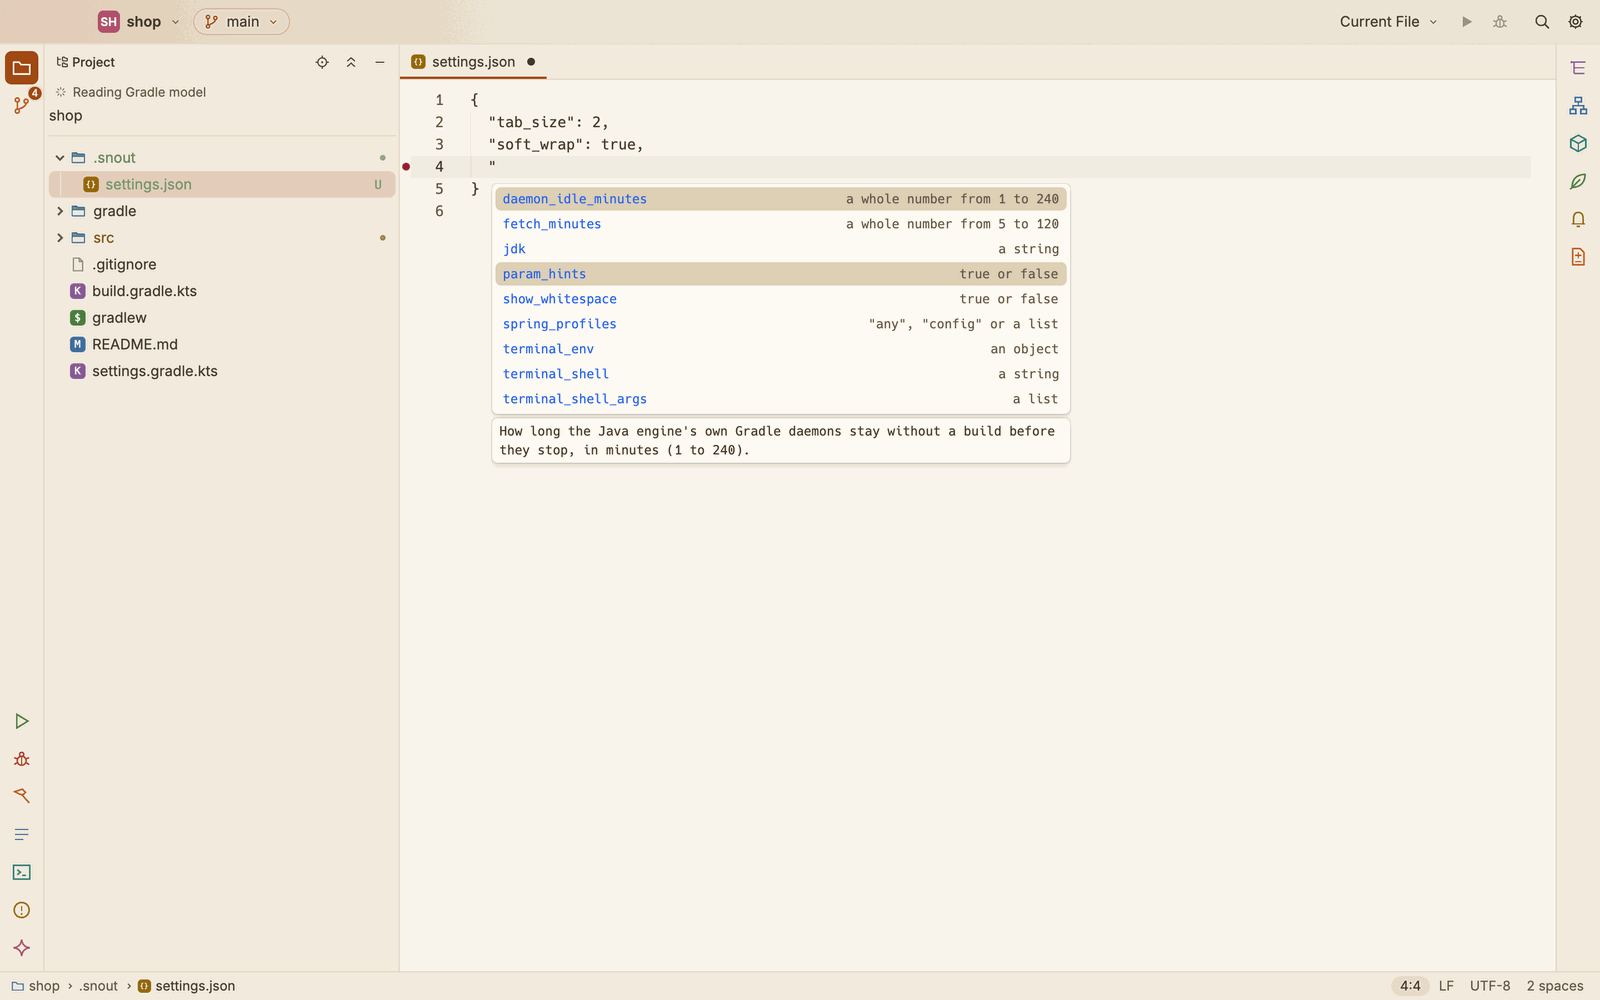
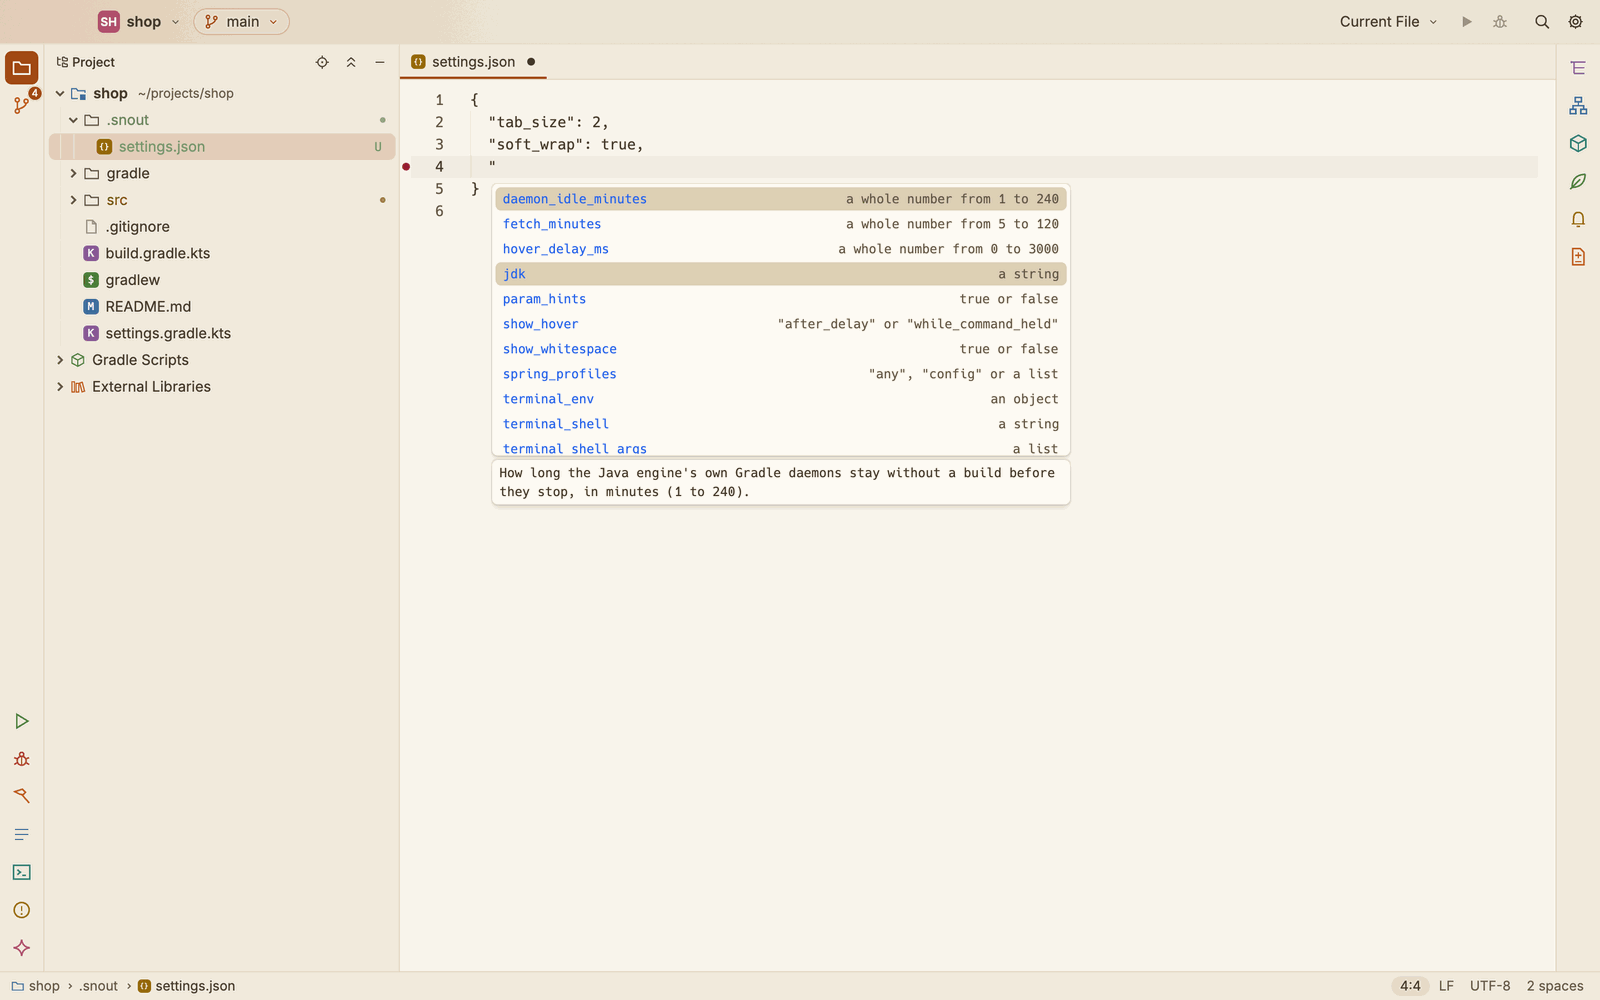
Docs: hover cards with their fix, context actions, Fix all, Ask to fix, the Problems window
- java.md: the hover card and the bulb in Quick fixes, the list ⌥↩ shows, and the Problems
  window grouped, with its toggles, filter and fixes; new and retaken shots.
- editor.md: the Hover section and its setting; agents.md: Ask the agent to fix a problem;
  keyboard-shortcuts.md and settings-and-keymap.md: ⌥↩, ⌥⇧↩, show_hover, hover_delay_ms.

Claude-Session: https://claude.ai/code/session_011ntyApaSsV4iLqKL7rZ4zN

Changed region(s): [[0.3125, 0.248, 0.6875, 0.496], [0.0312, 0.062, 0.25, 0.403], [0.5625, 0.248, 0.6562, 0.279]]

diff --git a/crates/snout-app/tests/screenshots/docs.rs b/crates/snout-app/tests/screenshots/docs.rs
@@ -253,7 +253,7 @@ impl Win {
                     cx,
                 );
             });
-            if self.pump(1, &mut |cx| e3.read(cx).state.read(cx).hover_popover().is_some()) {
+            if self.pump(1, &mut |cx| e3.read(cx).hover.card.as_ref().is_some_and(|c| c.ready())) {
                 return;
             }
         }
@@ -1073,20 +1073,56 @@ fn shop(projects: &Path) {
     w.caret(&e, "package", 0);
     w.pump(1, &mut |_| false);
 
-    // An error and its quick fix: a type not imported.
+    // Errors and their quick fix: a type not imported, used on two lines.
     w.caret(&e, "        int items = 0;\n", 0);
-    w.insert(&e, "        LocalDate placed = LocalDate.now();\n");
+    w.insert(&e, "        LocalDate placed = LocalDate.now();\n        LocalDate due = placed.plusDays(3);\n");
     let e2 = e.clone();
-    let ok = w.pump(120, &mut |cx| !e2.read(cx).problems.is_empty());
-    println!("docs: problems {ok}");
+    let ok = w.pump(120, &mut |cx| e2.read(cx).problems.len() >= 3);
+    println!(
+        "docs: problems {ok} {:?}",
+        w.cx.update(|cx| e.read(cx).problems.iter().map(|d| d.message.clone()).collect::<Vec<_>>())
+    );
     w.with(|ws, window, cx| ws.update(cx, |ws, cx| ws.show_problems(window, cx)));
     w.pump(2, &mut |_| false);
     w.snap("java-problems-light");
-    w.caret(&e, "LocalDate placed", 2);
-    w.key("cmd-.");
+    // The pointer resting on the error: the card with its best fix.
+    w.hover(&e, "LocalDate placed", 3);
     let e2 = e.clone();
-    let ok = w.pump(60, &mut |cx| !e2.read(cx).state.read(cx).code_action_menu_state().items.is_empty());
-    println!("docs: quick fixes {ok}");
+    let ok = w.pump(60, &mut |cx| {
+        e2.read(cx).hover.card.as_ref().is_some_and(|c| matches!(c.fixes, snout_app::editor::Fixes::Found(_)))
+    });
+    println!("docs: problem hover {ok}");
+    w.pump(1, &mut |_| false);
+    w.snap("java-problem-hover-light");
+    let e2 = e.clone();
+    w.with(|_, _, cx| e2.update(cx, |e, cx| e.hide_card(cx)));
+    w.with(|_, window, cx| {
+        window.dispatch_event(
+            gpui::PlatformInput::MouseMove(gpui::MouseMoveEvent {
+                position: gpui::point(px(W - 20.), px(H - 10.)),
+                pressed_button: None,
+                modifiers: gpui::Modifiers::none(),
+            }),
+            cx,
+        );
+    });
+    // The caret on it: the bulb, and ⌥↩ lists the context actions.
+    w.caret(&e, "LocalDate placed", 2);
+    let e2 = e.clone();
+    let ok = w.pump(30, &mut |cx| e2.read(cx).hover.bulb.is_some());
+    println!("docs: bulb {ok}");
+    w.key("alt-enter");
+    let e2 = e.clone();
+    let ok = w.pump(60, &mut |cx| e2.read(cx).hover.actions.as_ref().is_some_and(|l| !l.loading));
+    let labels: Vec<String> = w.cx.update(|cx| {
+        e.read(cx)
+            .hover
+            .actions
+            .as_ref()
+            .map(|l| l.entries.iter().map(|x| x.label("Claude")).collect())
+            .unwrap_or_default()
+    });
+    println!("docs: quick fixes {ok} {labels:?}");
     w.pump(1, &mut |_| false);
     w.snap("java-quick-fix-light");
     w.key("escape");

diff --git a/scripts/docs-screenshots/process.py b/scripts/docs-screenshots/process.py
@@ -24,6 +24,7 @@ SPEC = {
     "java-hover": ("java-hover-light", None),
     "java-problems": ("java-problems-light", None),
     "java-quick-fix": ("java-quick-fix-light", None),
+    "java-problem-hover": ("java-problem-hover-light", None),
     "java-rename": ("java-rename-light", None),
     "java-references": ("java-references-light", None),
     "parameter-hints": ("java-param-hints-light", None),
@@ -64,6 +65,7 @@ SPEC = {
     "settings-and-keymap-appearance": ("settings-appearance-light", (580, 240, 2300, 1560)),
     "settings-and-keymap-appearance-dark": ("settings-appearance-dark", (580, 240, 2300, 1560)),
     "settings-and-keymap-keymap": ("settings-keymap-light", (580, 240, 2300, 1560)),
+    "settings-and-keymap-editor": ("settings-editor-light", (580, 240, 2300, 1560)),
     "settings-and-keymap-terminal": ("settings-terminal-light", (580, 240, 2300, 1560)),
     "settings-and-keymap-terminal-shell": ("settings-terminal-shell-light", (580, 240, 2300, 1560)),
     "settings-and-keymap-agents": ("settings-agents-light", (580, 240, 2300, 1560)),

diff --git a/docs/java.md b/docs/java.md
@@ -38,7 +38,9 @@ To turn them off or on, choose View ▸ Parameter Name Hints, run **Toggle Param
 
 ## Hover
 
-Rest the pointer on a name to see its type and documentation. On a squiggle, you see the problem's message.
+Rest the pointer on a name to see its type and documentation. On a squiggle, the card shows the problem first, with its fix (see [Quick fixes](#quick-fixes)), then what the name is.
+
+By default the card shows once the pointer rests for half a second. Hold ⌘ to see it at once, along with the link to the declaration. Settings ▸ Editor ▸ **Show hover** can keep it for ⌘ only, and set the delay (see [Settings and keymap](settings-and-keymap.md#editor)).
 
 ![Hover on a method call](images/java-hover.png)
 
@@ -131,11 +133,31 @@ When the refactoring is not possible with what is selected, nothing changes, and
 
 ## Quick fixes
 
-Press ⌘. (Code ▸ Quick Fix…) to list the fixes and actions the engine offers at the caret, such as adding a missing import. Choose one to apply it. Quick Fix… is also in the editor's right click menu.
+Rest the pointer on a squiggle, or on the problem's dot in the gutter. The card shows the problem with its severity icon and message, and the engine's best fix as a button, such as **Import 'LocalDate' (java.time)**. Click it, or press ⌥⇧↩ with the caret on the problem, to apply it. While the engine looks, the card says `Looking for fixes…`. When the engine has no fix, the button is **Ask Claude to fix** instead (see [Ask the agent to fix a problem](agents.md#ask-the-agent-to-fix-a-problem)).
 
-![Quick fixes for a class that is not imported](images/java-quick-fix.png)
+![The card of an error: the problem, its fix and More actions](images/java-problem-hover.png)
 
-*The fixes for `LocalDate`, which the file does not import: first, the import.*
+*The pointer on `LocalDate`, which the file does not import: the import is the best fix.*
+
+**More actions…** (⌥↩) lists everything that can be done there. The list is also what you get with:
+
+- ⌥↩ (Code ▸ Show Context Actions…), as in IntelliJ, and ⌘.;
+- the bulb in the gutter: when the line the caret is on has fixes, its dot becomes a bulb (red for an error). Click it;
+- Show Context Actions… in the editor's right click menu.
+
+The list has, in order:
+
+1. the engine's best fix for the problem, with ⌥⇧↩ beside it;
+2. **Fix all ‘…’ in file**, when the file has more problems of the same kind and the same fix applies to each, such as the import of a class used on several lines, or removing every unused import. The fixes are made at once;
+3. **Ask Claude to fix** (or the agent the console runs);
+4. the engine's other fixes, such as creating the class, or another name it could be;
+5. the other actions the engine offers there, such as refactorings and generating code.
+
+Use ↑ and ↓ to move, ↩ to apply and Esc to close.
+
+![The context actions on an error, and the bulb in the gutter](images/java-quick-fix.png)
+
+*⌥↩ on `LocalDate`, used on two lines: the import, Fix all for both, Ask Claude to fix, then the engine's other fixes. The bulb marks the caret's line.*
 
 ## Organize imports
 
@@ -157,11 +179,20 @@ The engine checks the files as you type.
 
 ### The Problems window
 
-Press ⇧⌘M (Code ▸ Show Problems) to open the **Problems** window in the bottom dock. It lists every error and warning in the project, errors first, then by file and line. Its header counts them, such as `2 errors, 5 warnings`. Click a row to go there.
+Press ⇧⌘M (Code ▸ Show Problems) to open the **Problems** window in the bottom dock. It lists every problem in the project, grouped by file. Files with errors come first; within a file, errors come first, then by line.
+
+- Each file's row shows its counts of errors, warnings and information. Click it to collapse or expand it. The button at the right collapses or expands every file.
+- The toggles at the top show or hide errors, warnings and information, each with its count.
+- The filter box narrows the list to the problems whose message, file or source contains what you type.
+- Double-click a problem, or select it and press ↩, to go there.
+- Right-click a problem, or select it and press ⌥↩, for its fixes, **Fix all ‘…’ in file** and **Ask Claude to fix**, as in the editor.
+- ↑ and ↓ move through the list; ← and → collapse and expand a file.
+
+The list stays quick with hundreds of warnings: only the rows in view are drawn.
 
 ![The Problems window](images/java-problems.png)
 
-*Two errors in the Problems window, underlined in the code, and counted at the top right of the editor.*
+*The errors of a class not imported, grouped under their file, counted by the toggles and at the top right of the editor.*
 
 The Problems window also lists what the last Gradle compile reported, when you build, run or test. A compile with errors brings the Problems window forward. See [Run and debug](run-and-debug.md).
 

diff --git a/docs/editor.md b/docs/editor.md
@@ -62,9 +62,22 @@ The indentation of a file is read from its own text. A file that shows none gets
 
 Each of these is one step that Undo takes back.
 
-Right click in the editor for a menu with Cut, Copy, Paste, Select All and Send Selection to Claude. In a Java file it also has Go to Definition, Quick Fix… and a **Refactor** submenu (Rename Symbol…, Extract Method, Extract Variable, Extract Constant, Extract Field and Inline), and Run and Debug for what the caret is in. Each item shows its icon and, on the right, its shortcut. The arrow keys move through the menu (→ opens a submenu), ↩ picks an item and Esc closes it.
+Right click in the editor for a menu with Cut, Copy, Paste, Select All and Send Selection to Claude. In a Java file it also has Go to Definition, Show Context Actions… and a **Refactor** submenu (Rename Symbol…, Extract Method, Extract Variable, Extract Constant, Extract Field and Inline), and Run and Debug for what the caret is in. Each item shows its icon and, on the right, its shortcut. The arrow keys move through the menu (→ opens a submenu), ↩ picks an item and Esc closes it.
 
 ![The editor's right-click menu](images/editor-context-menu.png)
+
+## Hover
+
+Rest the pointer on a name or a problem for its card: the problem with its fix first, then what the name is (see [Java](java.md#hover) and [Quick fixes](java.md#quick-fixes)). In a settings file, the card describes the setting.
+
+Settings ▸ Editor ▸ Hover says when the card shows:
+
+- **After a delay** (the default): once the pointer rests on the name for the delay, 500 ms unless you change it.
+- **Only while ⌘ is held**: resting shows nothing.
+
+Either way, holding ⌘ shows the card at once, with the name underlined as a link to its declaration (⌘-click goes there). The card stays while the pointer moves onto it, so you can click its buttons. It goes when you type, scroll or move away. ⌥↩ shows the actions at the caret whatever the setting.
+
+![Settings ▸ Editor, with the hover's settings](images/settings-and-keymap-editor.png)
 
 ## Find and replace in a file
 

diff --git a/docs/settings-and-keymap.md b/docs/settings-and-keymap.md
@@ -55,6 +55,8 @@ A project can set these, by their names in the file:
 | Editor ▸ Soft wrap long lines | `soft_wrap` | `true` or `false` |
 | Editor ▸ Show whitespace | `show_whitespace` | `true` or `false` |
 | Editor ▸ Show parameter names of literal arguments | `param_hints` | `true` or `false` |
+| Editor ▸ Show hover | `show_hover` | `"after_delay"` or `"while_command_held"` |
+| Editor ▸ Hover delay | `hover_delay_ms` | 0 to 3000 |
 | Version Control ▸ Fetch every | `fetch_minutes` | 5 to 120 |
 | Gradle ▸ JDK, every build | `jdk` | the JDK's home folder |
 | Gradle ▸ Stop idle daemons after | `daemon_idle_minutes` | 1 to 240 |
@@ -146,6 +148,19 @@ and warnings differ in lightness as well as colour.
 - **Show whitespace**: editors show spaces and tabs.
 - **Show parameter names of literal arguments (Java)**: on by default. See
   [Java](java.md#parameter-name-hints). View ▸ Parameter Name Hints switches it too.
+
+**Hover**
+
+- **Show hover**: **After a delay** (the default) shows the hover card once the pointer rests
+  on a name or a problem; **Only while ⌘ is held** shows it only with ⌘. Holding ⌘ always shows
+  it at once, with the link to the declaration. See [Editor](editor.md#hover).
+- **Delay**: how long the pointer rests first, in milliseconds, from 0 to 3000. The default is
+  500.
+
+Both can be set for a project too (`show_hover`, `hover_delay_ms`; see
+[Your settings and the project's](#your-settings-and-the-projects)).
+
+![Settings ▸ Editor](images/settings-and-keymap-editor.png)
 
 **Preview** shows a few lines of Java as the editor shows them with the settings on the page:
 the indentation at the tab size, dots for the spaces when whitespace shows, the parameter name

diff --git a/docs/agents.md b/docs/agents.md
@@ -80,6 +80,21 @@ The lines sent light up in the agent's colour for a moment, and a note by the co
 
 You do not need to send the selection for Claude Code to see it: while connected, it hears your selection as it changes.
 
+## Ask the agent to fix a problem
+
+For any problem in the code, **Ask Claude to fix** is in the context actions (⌥↩ on the problem, or the bulb in the gutter), and in the Problems window's (right-click a problem). When the engine has no fix for a problem, it is also the button of the problem's hover card. With another agent in the console, it says that agent's name, such as **Ask Codex to fix**.
+
+SnoutCode puts the file, the problem's lines and what is wrong in the agent's prompt, and brings the console forward:
+
+```
+@src/main/java/com/example/shop/service/OrderService.java#L27 Fix this error: LocalDate cannot be resolved to a type
+```
+
+- Claude Code, connected: the file and lines arrive as a mention, and the words are typed after it.
+- Any other agent (Codex, a command of your own, or Claude Code not connected): SnoutCode types all of it into the console.
+
+Nothing is sent until you press ↩, so you can add to it first. The lines light up in the agent's colour for a moment, and a note by the console says what went: **Asked Claude to fix OrderService.java line 27**.
+
 ## Watch the agent write
 
 With **Follow** on (the default), the editor follows the files the agent changes:

diff --git a/docs/keyboard-shortcuts.md b/docs/keyboard-shortcuts.md
@@ -79,7 +79,8 @@ Some keys mean different things in different places. Where a shortcut only works
 | ⌥⌘C | Extract Constant | Editor |
 | ⌥⇧⌘F | Extract Field (⌥⌘F is Replace in File) | Editor |
 | ⌥⌘N | Inline | Editor |
-| ⌘. | Quick Fix… | Editor |
+| ⌥↩, ⌘. | Show Context Actions… (fixes, Fix all in file, Ask Claude to fix) | Editor, Problems window |
+| ⌥⇧↩ | Apply Top Fix (the best fix of the problem at the caret) | Editor |
 | ⌥⇧F | Format Document | Editor |
 | ⌥⌘L | Format Selection (the whole file when nothing is selected) | Editor |
 | ⌥⇧O | Organize Imports | Editor |
